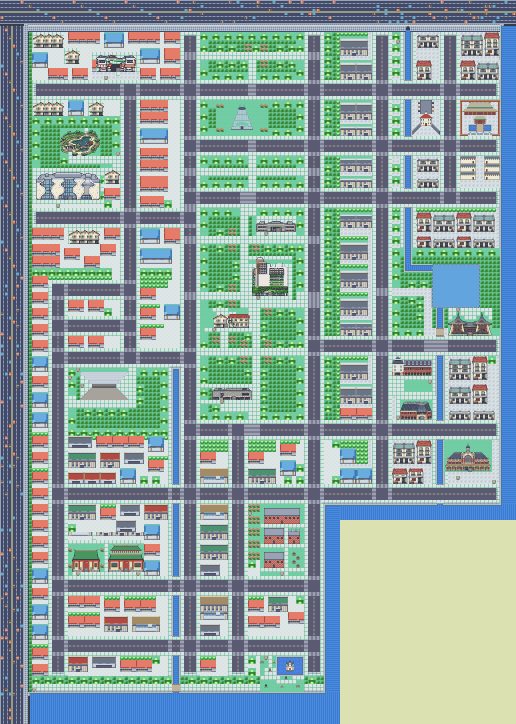
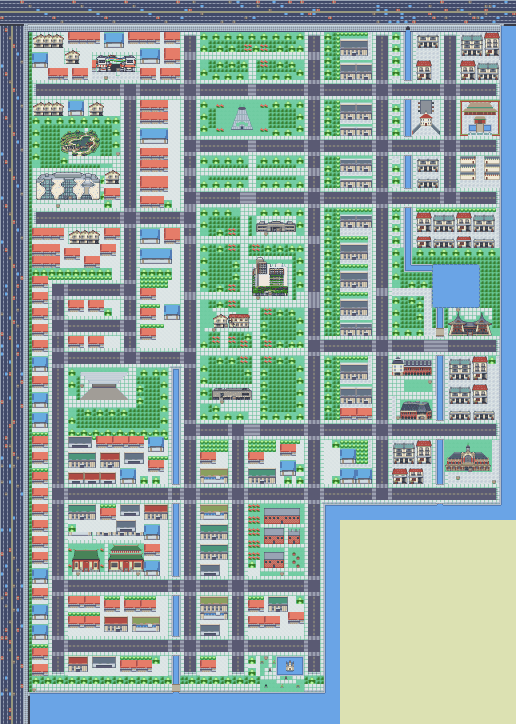
Redraw the city map from the sign-free cartridge with still water
Render the website, minimap and City Map art from native 2362263, so the four
removed street signs are gone, and draw animated tile slots with their first
frame so water shows the game's still, flat colour instead of the tileset's
raw wave texture. Take native's refreshed source hashes into the minimap
contract; its geometry fingerprint is unchanged.

diff --git a/web/scripts/render-landing-map.py b/web/scripts/render-landing-map.py
@@ -2,8 +2,10 @@
 """Render the landing page's city map from the native map source.
 
 Pastes the three exterior districts at their City Map world origins, using the
-game's own metatiles via tools/taichung/render_maps.py. Outside the districts
-stays transparent. Sprites and object events are not drawn. Requires Pillow.
+game's own metatiles via tools/taichung/render_maps.py. Tile slots the game
+animates are drawn with their first animation frame, as the cartridge shows them
+(the still, flat water, for one). Outside the districts stays transparent.
+Sprites and object events are not drawn. Requires Pillow.
 
   python3 web/scripts/render-landing-map.py --source vendor/pokefirered
 """
@@ -11,13 +13,52 @@ stays transparent. Sprites and object events are not drawn. Requires Pillow.
 import argparse
 import hashlib
 import json
+import re
 import subprocess
 import sys
+import tempfile
 from pathlib import Path
 
 from PIL import Image
 
 WEB = Path(__file__).resolve().parents[1]
+# InitTilesetAnim_General copies these frames over the primary's tiles at run time (src/tileset_anims.c):
+# folder under data/tilesets/primary/general/anim, first 4bpp tile slot, tile count.
+GENERAL_ANIMS = (("water_current_landwatersedge", 416, 48), ("sandwatersedge", 464, 18), ("flower", 508, 4))
+
+
+def animated_tile_paths(native, source, scratch):
+    """Wrap render_maps.tileset_paths so primaries animated by InitTilesetAnim_General show frame 0 in their slots."""
+    headers = (source / "src/data/tilesets/headers.h").read_text()
+    original = native.tileset_paths
+    patched = {}
+
+    def tileset_paths(src, label):
+        paths = original(src, label)
+        name = label if label.startswith("gTileset_") else f"gTileset_{label}"
+        header = re.search(rf"\b{re.escape(name)}\s*=\s*\{{(.*?)\}};", headers, re.S).group(1)
+        callback = re.search(r"\.callback\s*=\s*(\w+)", header)
+        callback = callback.group(1) if callback else "NULL"
+        if callback == "NULL":
+            return paths
+        if callback != "InitTilesetAnim_General":
+            raise ValueError(f"{name} animates with {callback}; teach this script its frames before rendering")
+        if name not in patched:
+            # A copy keeps the tileset's own palette, so saving it cannot remap the 4bpp indices.
+            sheet = Image.open(paths["tiles"]).copy()
+            if sheet.height < 512 // 16 * 8:
+                raise ValueError(f"{paths['tiles']} has no room for the animated slots")
+            for folder, first, count in GENERAL_ANIMS:
+                frame = Image.open(source / "data/tilesets/primary/general/anim" / folder / "0.png")
+                for k in range(count):
+                    tile = frame.crop((k % 2 * 8, k // 2 * 8, k % 2 * 8 + 8, k // 2 * 8 + 8))
+                    n = first + k
+                    sheet.paste(tile, (n % 16 * 8, n // 16 * 8))
+            patched[name] = scratch / f"{name}.png"
+            sheet.save(patched[name])
+        return {**paths, "tiles": patched[name]}
+
+    native.tileset_paths = tileset_paths
 
 
 def main():
@@ -29,6 +70,8 @@ def main():
     source = args.source.resolve()
     sys.path.insert(0, str(source / "tools/taichung"))
     import render_maps as native
+    scratch = Path(tempfile.mkdtemp(prefix="city-map-"))
+    animated_tile_paths(native, source, scratch)
 
     contract = json.loads(args.contract.read_text())
     layouts = {layout["id"]: layout for layout in json.loads((source / "data/layouts/layouts.json").read_text())["layouts"] if "id" in layout}

diff --git a/docs/website-landmarks-and-minimap.md b/docs/website-landmarks-and-minimap.md
@@ -1,6 +1,6 @@
 # Website landmarks, title card and street minimap
 
-Web-only changes on `claude/gym-gameboy-website-updates-9d8798`, based on main 80c714f. No ROM change.
+Web changes on `claude/gym-gameboy-website-updates-9d8798`, based on main 80c714f. The branch also merges the in-game fixes (native 2362263, cartridge `5c3e041d…`, see `docs/gym-text-fixes.md`).
 
 ## Title card
 
@@ -28,10 +28,13 @@ The exit button now reads "Back to site" / 返回網站.
 
 - **Live minimap.** The minimap is a 36×27-tile window on the real city render. It follows the player and is clamped to the world edges. It marks all ten gyms (squares) and ten landmarks (rounds).
 - **City Map dialog.** Tapping the minimap opens the City Map, which now uses the same render at full size, with all twenty places, district signs and tabs. The schematic district boxes (`city-guide-model.ts`) are gone.
-- **Derived art.** `web/scripts/derive-city-art.py` writes the minimap image (`src/assets/minimap/city.png`, 4 px per tile) and the ten landmark crops (`src/assets/landmarks/map/`). Both come from `src/assets/landing/city-map.png`. Re-run the script whenever the city render changes, for example after the street signs come out of the ROM.
+- **Derived art.** `web/scripts/derive-city-art.py` writes the minimap image (`src/assets/minimap/city.png`, 4 px per tile) and the ten landmark crops (`src/assets/landmarks/map/`). Both come from `src/assets/landing/city-map.png`. Re-run the script whenever the city render changes.
+- **City render.** `city-map.png` is now rendered from native 2362263, so the four removed street signs are gone. `render-landing-map.py` now draws animated tile slots with their first frame, as the cartridge shows them. Before this, the map showed the tileset's raw wave texture, while the game draws its water one still, flat colour. Water, sand edges and flowers now match the game.
+- **Contract.** `minimap-contract.json` takes native's three refreshed source hashes (Nantun North, Wanhe, Old City North). The geometry fingerprint is unchanged, and `verify-cartridge.mjs` passes with cartridge `5c3e041d…`.
 
 ## Checks
 
 - `npm run check` and `npm test`: 50/50 tests pass.
 - Browser fixtures: minimap 12/12, controls 20/20, onboarding 5/5.
 - Headless screenshots: landing, title card and City Map, at 1440, 820 and 390 px wide, in English and Traditional Chinese.
+- Live game: the cartridge was booted in the web player with the Wanhe test save. The minimap followed the player from world tile (10, 125) to (17, 125), naming Wenchang Temple as the nearest landmark, and tapping it opened the City Map.
